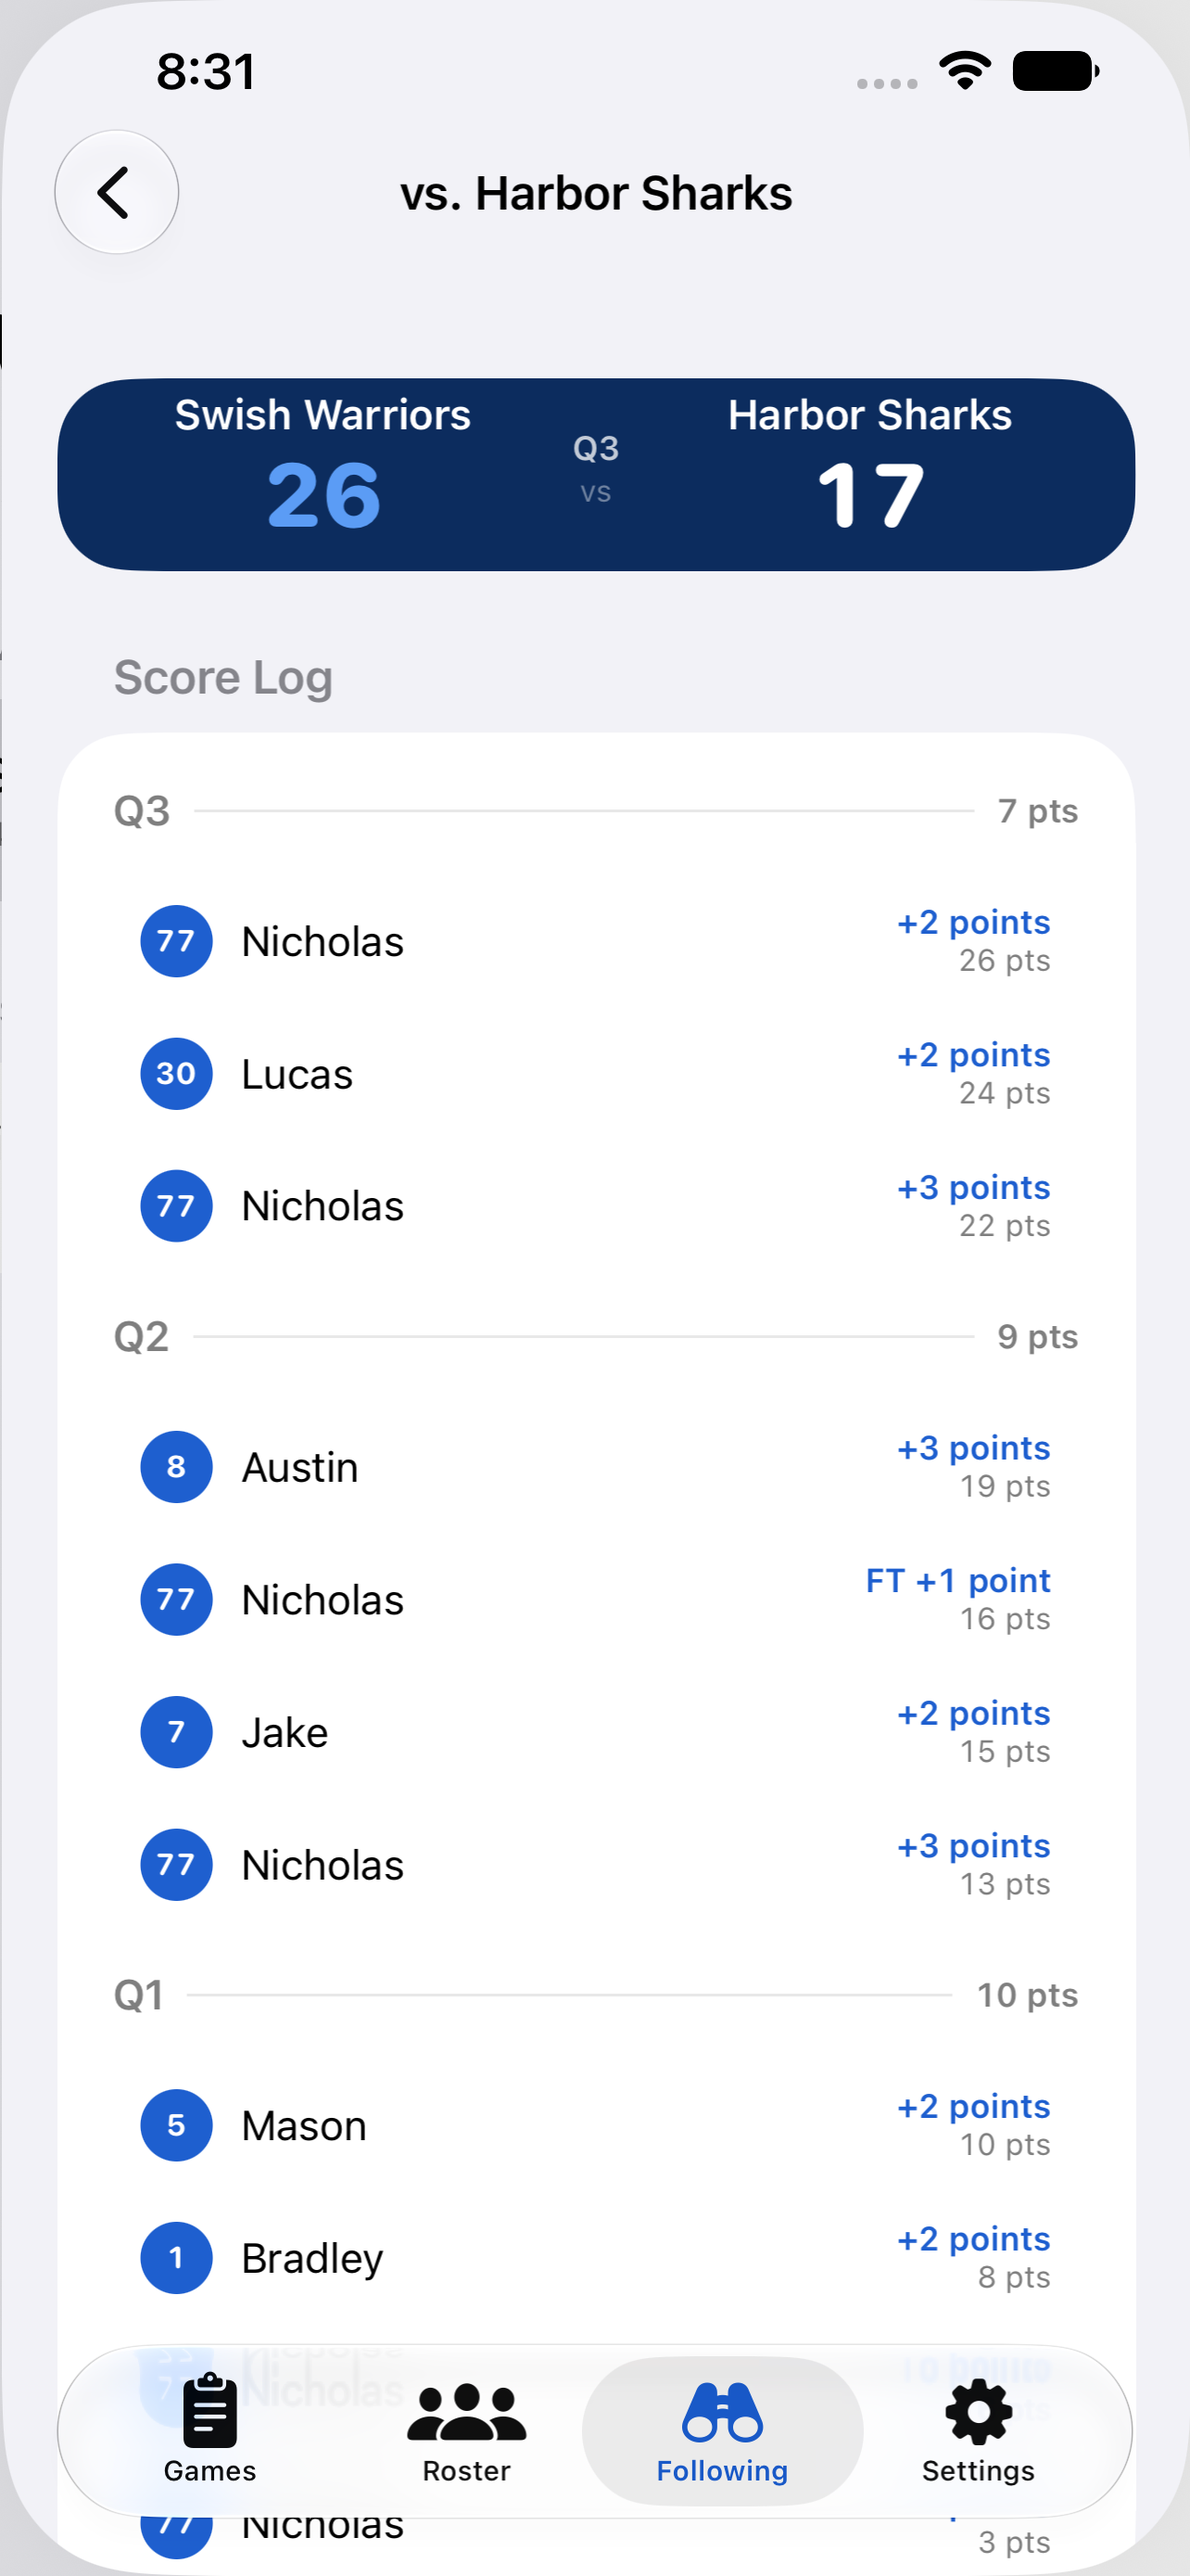
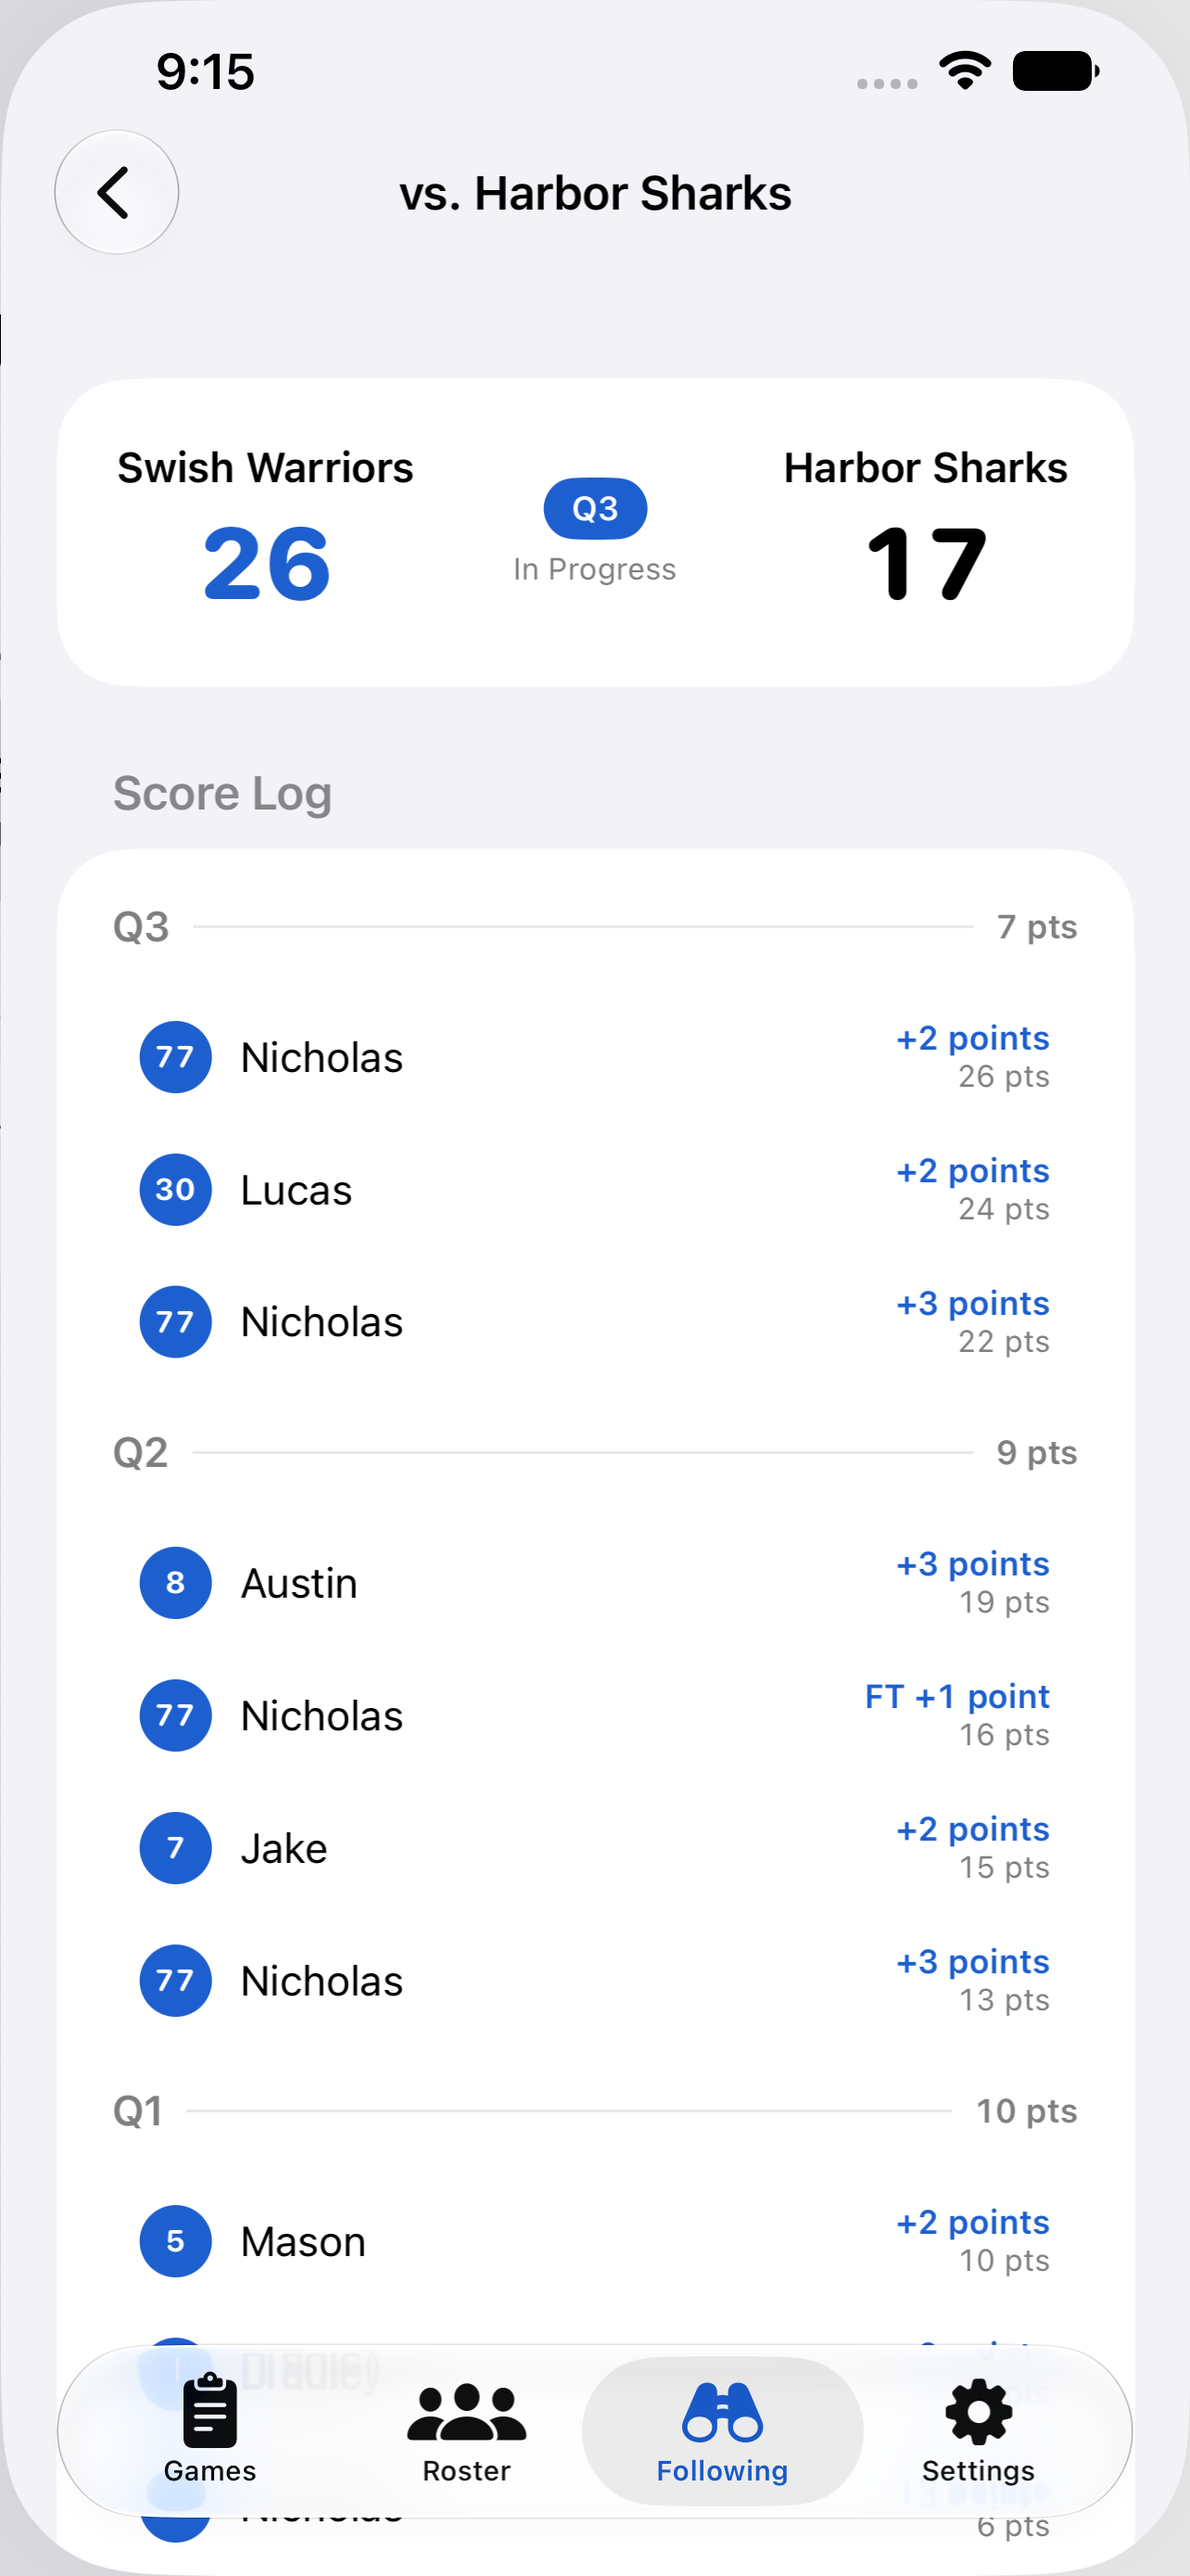
Give a followed game the Game Summary's score card (#92)
The follower's detail screen led with ScoreboardView, the solid navy
banner from Live Scoring. That banner is designed to be read across a
gym while someone taps a point pad; on a detail screen it just reads as
a heavy dark slab, and Thomas asked for the lighter card the finished
game shows instead.

Rather than copy it, the summary's inline final-score section moves into
StatsPanels.swift as GameScoreCard, next to the other components both
screens already share, so the two can't drift.

Extracting it forced the states the summary never had to think about,
since it only ever draws a finished game. A follower opens games at any
stage, so the card is now state-aware: the result pill becomes the
current period ("Q3", or "LIVE" for a pickup game with no periods) while
the game is on, and a scheduled game shows dashes and its tip-off time
rather than a 0-0 tie that never happened. The follower's screen also
drops the all-zero stats table for a scheduled game and says the scores
appear once it starts, so the page isn't blank under the card.

Live Scoring keeps ScoreboardView untouched.

Claude-Session: https://claude.ai/code/session_01XKw3Fyr61m8RtwfRppQofX

diff --git a/CourtsideHoopStats/Views/StatsPanels.swift b/CourtsideHoopStats/Views/StatsPanels.swift
@@ -2,10 +2,108 @@ import SwiftUI
 
 /// Shared read-only stat panels (issue #8).
 ///
-/// These are the single implementation of the player-stats table and the
-/// by-period score grid, reused across the post-game **Summary**, the **Live
-/// Scoring** screen, and while **editing** a finished game — so the numbers
-/// look identical everywhere and there's one place to change them.
+/// These are the single implementation of the score card, the player-stats
+/// table and the by-period score grid, reused across the post-game **Summary**,
+/// the **Live Scoring** screen, a follower's read-only detail, and while
+/// **editing** a finished game — so the numbers look identical everywhere and
+/// there's one place to change them.
+
+// MARK: - Score card
+
+/// The score panel at the top of a game screen: both teams, their scores, and
+/// where the game is up to. Shared by the owner's **Game Summary** and a
+/// follower's read-only detail — the follower's screen used to carry Live
+/// Scoring's navy banner, which is tuned for reading at ten feet in a gym
+/// rather than for a phone in your hand.
+///
+/// State-aware rather than final-score-only, because a follower opens games at
+/// every stage: a scheduled game drawn as a final score reads as a 0–0 tie that
+/// has already been played.
+struct GameScoreCard: View {
+    let game: Game
+    /// Whose team this is — the active team, or the followed one. Passed in
+    /// rather than read from the store: a follower is looking at someone else's.
+    let ourName: String
+
+    /// Score digits scale with Dynamic Type (capped so they can't overflow the
+    /// row), matching the live scoreboard's behavior (issue #12).
+    @ScaledMetric(relativeTo: .largeTitle) private var scoreSize: CGFloat = 36
+
+    /// A game that hasn't tipped off has no score — nothing to show, rather than
+    /// a pair of zeros that would read as a game played to a scoreless tie.
+    private var isScoreless: Bool { game.lifecycle == .scheduled }
+
+    var body: some View {
+        HStack {
+            teamColumn(name: ourName, score: game.ourScore, highlight: true)
+            VStack {
+                statusBadge
+                Text(caption).font(.caption2).foregroundStyle(.secondary)
+            }
+            .frame(maxWidth: .infinity)
+            teamColumn(name: game.opponent.isEmpty ? "Opponent" : game.opponent,
+                       score: game.opponentScore,
+                       highlight: false)
+        }
+        .padding(.vertical, 8)
+    }
+
+    private func teamColumn(name: String, score: Int, highlight: Bool) -> some View {
+        VStack(spacing: 4) {
+            Text(name).font(.subheadline).bold().lineLimit(1).minimumScaleFactor(0.6)
+            if isScoreless {
+                // Small and grey: a placeholder shouldn't carry the visual
+                // weight of a score, which at this size reads as a black bar.
+                Text("—").font(.title2).foregroundStyle(.tertiary)
+            } else {
+                Text("\(score)")
+                    .font(.system(size: min(scoreSize, 64), weight: .heavy, design: .rounded))
+                    .monospacedDigit()
+                    .lineLimit(1)
+                    .foregroundStyle(highlight ? Color.teamAccent : .primary)
+            }
+        }
+        .frame(maxWidth: .infinity)
+    }
+
+    private var statusBadge: some View {
+        let (text, color): (String, Color) = {
+            switch game.lifecycle {
+            case .complete:
+                switch game.result {
+                case .win:  return ("WIN", .teamAccent)
+                case .loss: return ("LOSS", .red)
+                case .tie:  return ("TIE", .gray)
+                }
+            case .inProgress:
+                // The period stands in for the result there isn't one of yet.
+                // Pickup games have no periods, so they say they're live.
+                return (game.periodFormat == .pickup
+                        ? "LIVE"
+                        : game.periodFormat.periodLabel(game.currentPeriod),
+                        .teamAccent)
+            case .scheduled:
+                return ("SCHEDULED", .gray)
+            }
+        }()
+        return Text(text)
+            .font(.caption).bold()
+            .foregroundStyle(.white)
+            .padding(.horizontal, 10)
+            .padding(.vertical, 4)
+            .background(Capsule().fill(color))
+    }
+
+    /// One line under the badge saying what the scores mean — for a game not
+    /// yet played, the tip-off time is more use than restating "scheduled".
+    private var caption: String {
+        switch game.lifecycle {
+        case .complete:   return "Final"
+        case .inProgress: return "In Progress"
+        case .scheduled:  return game.date.formatted(date: .omitted, time: .shortened)
+        }
+    }
+}
 
 // MARK: - Player stats table
 

diff --git a/CourtsideHoopStats/Views/FollowingView.swift b/CourtsideHoopStats/Views/FollowingView.swift
@@ -172,11 +172,11 @@ private struct GameGroup {
 /// A followed game, showing everything the owner's Game Summary shows — the
 /// same box score and the same play-by-play — minus every way to change it.
 ///
-/// Reuses `PlayerStatsTable`, `PeriodBreakdownGrid`, and `EventLogView` rather
-/// than reimplementing them, so a follower's numbers can never drift from the
-/// owner's. `EventLogView` already has a display-only mode (no tap-to-edit, no
-/// swipe-to-delete), and the game is passed as a constant binding, so there's
-/// nothing for an edit to write back to.
+/// Reuses `GameScoreCard`, `PlayerStatsTable`, `PeriodBreakdownGrid`, and
+/// `EventLogView` rather than reimplementing them, so a follower's numbers can
+/// never drift from the owner's. `EventLogView` already has a display-only mode
+/// (no tap-to-edit, no swipe-to-delete), and the game is passed as a constant
+/// binding, so there's nothing for an edit to write back to.
 private struct FollowedGameView: View {
     @EnvironmentObject var store: AppStore
     @Environment(\.teamSharingService) private var sharing
@@ -273,12 +273,22 @@ private struct FollowedGameView: View {
     private func content(for game: Game) -> some View {
         List {
             Section {
-                ScoreboardView(ourName: teamName,
-                               ourScore: game.ourScore,
-                               opponentName: game.opponent.isEmpty ? "Opponent" : game.opponent,
-                               opponentScore: game.opponentScore,
-                               periodLabel: periodLabel(for: game))
-                    .listRowInsets(EdgeInsets())
+                // The same card the owner's Game Summary leads with, not Live
+                // Scoring's navy banner: that banner is built for glancing at
+                // across a gym while scoring, and a follower is neither.
+                GameScoreCard(game: game, ourName: teamName)
+            }
+
+            // Nothing else on the screen for a game that hasn't tipped off, and
+            // a blank page reads as a failure to load rather than as "not yet".
+            if game.lifecycle == .scheduled {
+                Section {
+                    Text("Scores and stats appear here once the game starts.")
+                        .font(.footnote)
+                        .foregroundStyle(.secondary)
+                        .listRowBackground(Color.clear)
+                        .listRowSeparator(.hidden)
+                }
             }
 
             // Log first, newest at the top: a follower is watching for the next
@@ -293,7 +303,9 @@ private struct FollowedGameView: View {
                 }
             }
 
-            if !stats.isEmpty {
+            // A game that hasn't tipped off would otherwise get a full roster of
+            // zeros, contradicting the card above it.
+            if game.lifecycle != .scheduled, !stats.isEmpty {
                 Section("Player Stats") {
                     PlayerStatsTable(stats: stats, didNotPlay: game.didNotPlay(from: roster))
                 }
@@ -304,14 +316,6 @@ private struct FollowedGameView: View {
                     PeriodBreakdownGrid(game: game, ourName: teamName)
                 }
             }
-        }
-    }
-
-    private func periodLabel(for game: Game) -> String {
-        switch game.lifecycle {
-        case .complete:   return "Final"
-        case .scheduled:  return "Scheduled"
-        case .inProgress: return game.periodFormat.periodLabel(game.currentPeriod)
         }
     }
 }

diff --git a/CourtsideHoopStats/Views/GameSummaryView.swift b/CourtsideHoopStats/Views/GameSummaryView.swift
@@ -16,10 +16,6 @@ struct GameSummaryView: View {
     /// Presents the PDF preview, from which it can be shared.
     @State private var showingPDF = false
 
-    /// Final-score digits scale with Dynamic Type (capped so they can't overflow
-    /// the row), matching the live scoreboard's behavior (issue #12).
-    @ScaledMetric(relativeTo: .largeTitle) private var scoreSize: CGFloat = 36
-
     init(gameID: UUID) {
         self.gameID = gameID
         _game = State(initialValue: Game(opponent: ""))
@@ -96,45 +92,10 @@ struct GameSummaryView: View {
 
     private var finalScoreSection: some View {
         Section {
-            HStack {
-                scoreColumn(name: store.team.name, score: game.ourScore, highlight: true)
-                VStack {
-                    resultBadge
-                    Text("Final").font(.caption2).foregroundStyle(.secondary)
-                }
-                .frame(maxWidth: .infinity)
-                scoreColumn(name: game.opponent, score: game.opponentScore, highlight: false)
-            }
-            .padding(.vertical, 8)
+            // Shared with a follower's read-only detail, so the two screens
+            // can't drift.
+            GameScoreCard(game: game, ourName: store.team.name)
         }
-    }
-
-    private func scoreColumn(name: String, score: Int, highlight: Bool) -> some View {
-        VStack(spacing: 4) {
-            Text(name).font(.subheadline).bold().lineLimit(1).minimumScaleFactor(0.6)
-            Text("\(score)")
-                .font(.system(size: min(scoreSize, 64), weight: .heavy, design: .rounded))
-                .monospacedDigit()
-                .lineLimit(1)
-                .foregroundStyle(highlight ? Color.teamAccent : .primary)
-        }
-        .frame(maxWidth: .infinity)
-    }
-
-    private var resultBadge: some View {
-        let (text, color): (String, Color) = {
-            switch game.result {
-            case .win:  return ("WIN", .teamAccent)
-            case .loss: return ("LOSS", .red)
-            case .tie:  return ("TIE", .gray)
-            }
-        }()
-        return Text(text)
-            .font(.caption).bold()
-            .foregroundStyle(.white)
-            .padding(.horizontal, 10)
-            .padding(.vertical, 4)
-            .background(Capsule().fill(color))
     }
 
     // MARK: - Period-by-period grid (read-only)

diff --git a/docs/REQUIREMENTS.md b/docs/REQUIREMENTS.md
@@ -99,7 +99,7 @@ when someone has shared a team with you (§3.10).
 **Events:** 2-pt (+2), 3-pt (+3), FT made (+1), FT missed (0, counts as attempt). *(Fouls are no longer tracked in the UI; the `foul` case is retained only so older saved games still decode.)*
 
 ### 3.7 Game Summary (completed games)
-- Final score + W/L/T; period grid (our points derived from events, opponent from recorded totals); **editable opponent totals**.
+- Final score + W/L/T (`GameScoreCard`, shared with the follower's detail); period grid (our points derived from events, opponent from recorded totals); **editable opponent totals**.
 - Player stats table (sorted by points), first names: PTS, 2P, 3P, and **FT** shown made/attempts with a whole-percent **FT%** when there's ≥1 attempt (e.g. `5/6 (83%)`).
 - Players benched for the game are listed below the scorers as **DNP** rather
   than dropped — a roster that silently loses people reads as a bug, and zeroes
@@ -135,8 +135,11 @@ rendering, because `ImageRenderer` emits glyphs rather than annotations.
   roster is the wrong default).
 - **Follower:** a **Following tab** appears only when a team is actually shared
   with you. It lists each followed team's games with scores and a **Live** flag,
-  opening to a read-only detail (scoreboard, player stats, per-period
-  breakdown). No scoring or editing anywhere in it.
+  opening to a read-only detail (score card, player stats, per-period
+  breakdown). No scoring or editing anywhere in it. The detail leads with the
+  **same `GameScoreCard` the Game Summary uses**, not Live Scoring's navy
+  banner: a scheduled game shows dashes and its tip-off time, a live one the
+  current period in place of a result, a finished one WIN/LOSS/TIE and "Final".
 - **Liveness:** honest rather than "live" — updates land in seconds with signal,
   and catch up in a burst after a dead-zone gym. Every followed team shows an
   "Updated N ago" line. An open live game re-fetches every 20s on its own.

diff --git a/docs/UI_GUIDELINES.md b/docs/UI_GUIDELINES.md
@@ -42,11 +42,11 @@ A follower's screens don't hide editing behind a flag — they're built without 
 `FollowingView` is its own view rather than `GamesListView` with `isReadOnly`,
 because a flag leaves an edit path one missed check away from appearing.
 
-Presentational components *are* shared (`GameRowView`, `PlayerStatsTable`,
-`PeriodBreakdownGrid`, `EventLogView` in display-only mode), so a follower's
-numbers can't drift from the owner's. Where a shared component has an editable
-mode, disarm it twice: pass the flag **and** a constant binding, so there's
-nothing to write back to even if the flag were wrong.
+Presentational components *are* shared (`GameRowView`, `GameScoreCard`,
+`PlayerStatsTable`, `PeriodBreakdownGrid`, `EventLogView` in display-only mode),
+so a follower's numbers can't drift from the owner's. Where a shared component
+has an editable mode, disarm it twice: pass the flag **and** a constant binding,
+so there's nothing to write back to even if the flag were wrong.
 
 ## 5. Preferences are not records
 
